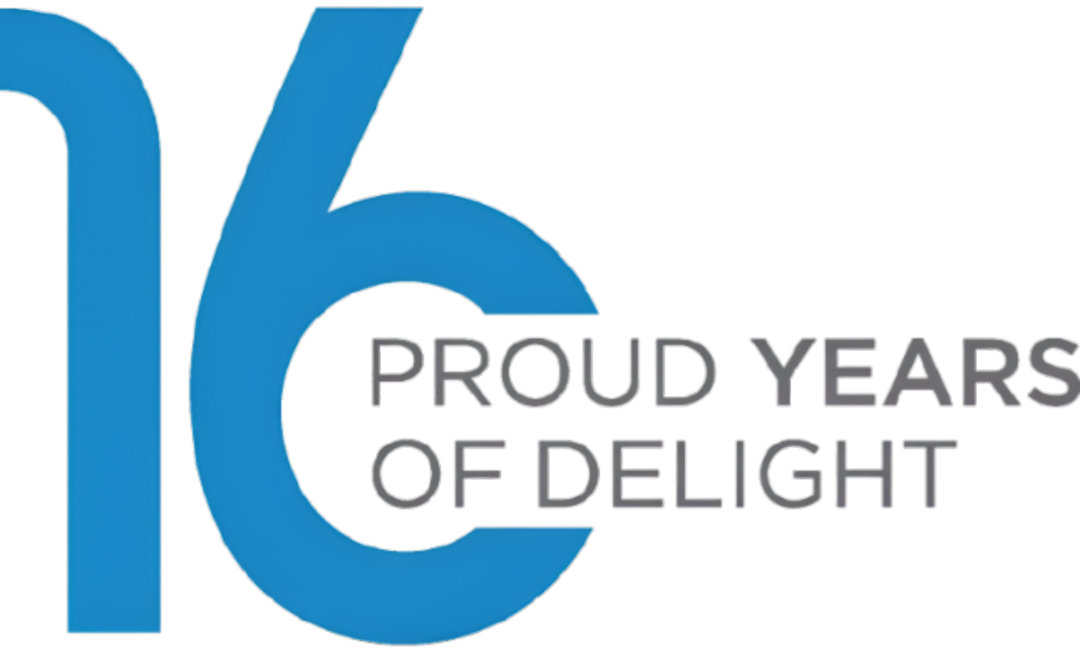
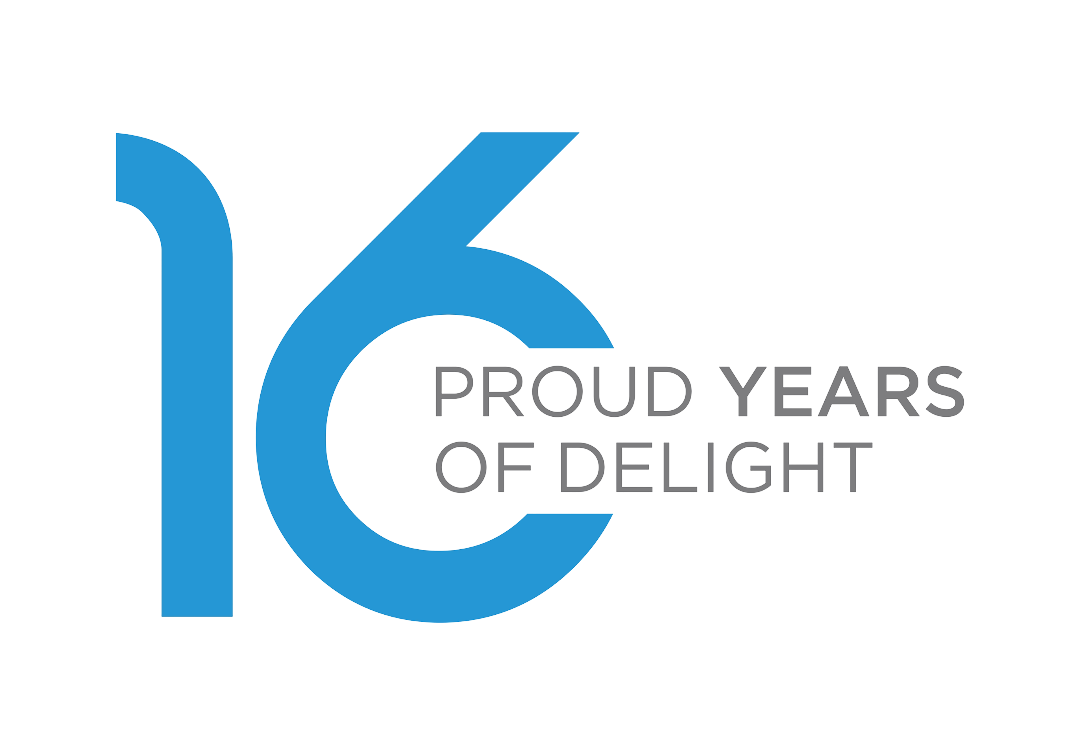
fix: project section

diff --git a/src/components/Footer/Footer.css b/src/components/Footer/Footer.css
@@ -5,22 +5,54 @@
 footer {
   background-color: #1D93D1;
   color: #fff;
-  padding: 60px 0 0;
+  padding: 35px 0 0;
 }
 
-/* ── Logo row — top right ── */
+/* ── Logo row — tagline left, logo right ── */
 .footer-logo-row {
   display: flex;
-  justify-content: flex-end;
-  margin-bottom: 50px;
+  align-items: center;
+  justify-content: space-between;
+  gap: 40px;
+  margin-bottom: 35px;
+}
+
+.footer-brand {
+  max-width: 480px;
+}
+
+.footer-tagline {
+  font-family: 'Rubik', sans-serif;
+  font-size: 0.92rem;
+  line-height: 1.75;
+  color: rgba(255, 255, 255, 0.9);
+  margin: 0 0 12px;
+}
+
+.footer-email {
+  display: inline-block;
+  font-family: 'Lato', sans-serif;
+  font-size: 0.85rem;
+  font-weight: 700;
+  letter-spacing: 0.04em;
+  color: #fff;
+  text-decoration: none;
+  border-bottom: 2px solid rgba(255, 255, 255, 0.6);
+  padding-bottom: 2px;
+  transition: opacity 0.2s;
+}
+
+.footer-email:hover {
+  opacity: 0.75;
 }
 
 .footer-logo-link {
   display: inline-block;
+  flex-shrink: 0;
 }
 
 .footer-logo {
-  height: 58px;
+  height: 68px;
   width: auto;
   filter: brightness(0) invert(1);
 }
@@ -165,7 +197,14 @@ footer {
   }
 
   .footer-logo-row {
+    flex-direction: column;
     justify-content: center;
+    text-align: center;
+    gap: 24px;
+  }
+
+  .footer-brand {
+    max-width: none;
   }
 
   .whatsapp-float {

diff --git a/src/components/Projects/Projects.js b/src/components/Projects/Projects.js
@@ -2,6 +2,8 @@ import React from 'react';
 import { Link } from 'react-router-dom';
 import './Projects.css';
 
+const IMG = '/images/projects/';
+
 export default function Projects() {
   return (
     <section id="projects-section">
@@ -25,63 +27,48 @@ export default function Projects() {
         {/* ── Right: 3-card bento grid ── */}
         <div id="works" className="works-grid">
 
-          {/* Card 1 – large portrait: photo + WEDDING pill + bold title */}
-          <a
-            href="https://medianetinfo.com/work/mesmera/"
-            className="work work--portrait"
-            target="_blank"
-            rel="noopener noreferrer"
-          >
+          {/* Card 1 – large portrait: photo + REAL ESTATE pill + bold title */}
+          <Link to="/work" className="work work--portrait">
             <div className="work-img-wrap">
               <img
-                src="https://medianetinfo.com/wp-content/themes/medianetinfo-theme/img/home/projects/project-2.png"
-                alt="Mesmera"
+                src={`${IMG}Our%20Projects_-03.jpg.jpeg`}
+                alt="HiLite Olympus 2"
                 loading="lazy"
               />
             </div>
             <div className="work-overlay work-overlay--bottom">
-              <span className="work-pill">WEDDING</span>
-              <h3 className="work-title work-title--photo">DESIGN YOUR DREAMS</h3>
+              <span className="work-pill">REAL ESTATE</span>
+              <h3 className="work-title work-title--photo">HILITE OLYMPUS 2</h3>
             </div>
-          </a>
+          </Link>
 
           {/* Right column – offset downward */}
           <div className="works-right">
 
-            {/* Card 2 – dark blue photo, centered italic title + client pill */}
-            <a
-              href="https://medianetinfo.com/work/mlounge/"
-              className="work work--landscape"
-              target="_blank"
-              rel="noopener noreferrer"
-            >
+            {/* Card 2 – photo, centered italic title + client pill */}
+            <Link to="/work" className="work work--landscape">
               <div className="work-img-wrap">
                 <img
-                  src="https://medianetinfo.com/wp-content/themes/medianetinfo-theme/img/home/projects/project-1.png"
-                  alt="M Lounge"
+                  src={`${IMG}Our%20Projects_-04.jpg.jpeg`}
+                  alt="Honda BigWing"
                   loading="lazy"
                 />
               </div>
               <div className="work-overlay work-overlay--center">
-                <h3 className="work-title work-title--italic">EVOLVE</h3>
-                <span className="work-client-pill">M LOUNGE</span>
+                <h3 className="work-title work-title--italic">BIG WING</h3>
+                <span className="work-client-pill">HONDA</span>
               </div>
-            </a>
+            </Link>
 
             {/* Card 3 – solid coral, decorative text layout */}
-            <a
-              href="https://medianetinfo.com/work/"
-              className="work work--landscape work--color"
-              target="_blank"
-              rel="noopener noreferrer"
-            >
+            <Link to="/work" className="work work--landscape work--color">
               <span className="work-tag">The Real Quality</span>
               <div className="work-color-body">
                 <p className="work-subtitle-italic">Experience</p>
                 <h3 className="work-title work-title--color">THE REAL QUALITY</h3>
                 <span className="work-divider-line" />
               </div>
-            </a>
+            </Link>
 
           </div>
         </div>

diff --git a/src/pages/Work/WorkPage.js b/src/pages/Work/WorkPage.js
@@ -4,66 +4,70 @@ import FooterCTA from '../../components/FooterCTA/FooterCTA';
 import Footer from '../../components/Footer/Footer';
 import './WorkPage.css';
 
-const CDN = 'https://medianetinfo.com/wp-content/themes/medianetinfo-theme/img/home/projects/';
+const IMG = '/images/projects/';
+const DECATHLON = IMG + 'Our%20Projects_-01.jpg.jpeg';
+const IMPEX = IMG + 'Our%20Projects_-02.jpg.jpeg';
+const HILITE = IMG + 'Our%20Projects_-03.jpg.jpeg';
+const HONDA = IMG + 'Our%20Projects_-04.jpg.jpeg';
 
 const works = [
   {
     name: 'JCB',
-    img: CDN + 'project-2.png',
+    img: HONDA,
     href: 'https://medianetinfo.com/work/jcb/',
     shape: 'landscape',
   },
   {
     name: 'Francis Alukkas',
-    img: CDN + 'project-2.png',
+    img: HILITE,
     href: 'https://medianetinfo.com/work/francis-alukkas/',
     shape: 'portrait',
   },
   {
     name: 'M Lounge',
-    img: CDN + 'project-1.png',
+    img: DECATHLON,
     href: 'https://medianetinfo.com/work/mlounge/',
     shape: 'square',
   },
   {
     name: 'EVM Nissan',
-    img: CDN + 'project-4.png',
+    img: IMPEX,
     href: 'https://medianetinfo.com/work/evm-nissan/',
     shape: 'landscape',
   },
   {
     name: 'Landmark Maple',
-    img: CDN + 'project-3.png',
+    img: IMPEX,
     href: 'https://medianetinfo.com/work/landmark-maple/',
     shape: 'square',
   },
   {
     name: 'Yamaha',
-    img: CDN + 'project-3.png',
+    img: DECATHLON,
     href: 'https://medianetinfo.com/work/yamaha/',
     shape: 'landscape',
   },
   {
     name: 'Natural',
-    img: CDN + 'project-4.png',
+    img: HILITE,
     href: 'https://medianetinfo.com/work/natural/',
     shape: 'portrait',
   },
   {
     name: 'Lamit',
-    img: CDN + 'project-3.png',
+    img: HONDA,
     href: 'https://medianetinfo.com/work/lamit/',
     shape: 'landscape',
   },
   {
     name: 'Mesmera',
-    img: CDN + 'project-4.png',
+    img: DECATHLON,
     href: 'https://medianetinfo.com/work/mesmera/',
     shape: 'square',
   },
   {
     name: 'Mend',
-    img: CDN + 'project-2.png',
+    img: IMPEX,
     href: 'https://medianetinfo.com/work/mend/',
     shape: 'landscape',
   },

diff --git a/src/components/Footer/Footer.js b/src/components/Footer/Footer.js
@@ -35,8 +35,18 @@ export default function Footer() {
       <footer id="wrapper-footer" role="contentinfo">
         <div className="container">
 
-          {/* Logo — top right */}
+          {/* Brand tagline — left, Logo — right */}
           <div className="footer-logo-row">
+            <div className="footer-brand">
+              <p className="footer-tagline">
+                Promptness and accuracy in delivering quality service is our
+                iconic history. Internationalism in the work culture and 16+
+                years of trusted partnerships with esteemed clients.
+              </p>
+              <a href="mailto:[email redacted]" className="footer-email">
+                [email redacted]
+              </a>
+            </div>
             <a href="/" className="footer-logo-link" aria-label="Medianet Info">
               <img
                 src="https://medianetinfo.com/wp-content/themes/medianetinfo-theme/img/logo-footer.svg"

diff --git a/src/pages/About/About.css b/src/pages/About/About.css
@@ -10,7 +10,7 @@
 .about-container {
   max-width: 1200px;
   margin: 0 auto;
-  padding: 0 48px;
+  padding: 0 48px 0 16px;
 }
 
 .about-blue {
@@ -28,6 +28,7 @@
   gap: 64px;
   align-items: center;
 }
+
 
 .about-we-are-heading {
   font-family: 'Lato', sans-serif;
@@ -53,7 +54,7 @@
 }
 
 .about-badge-img {
-  height: 300px;
+  height: 480px;
   width: auto;
   display: block;
   object-fit: contain;
@@ -243,7 +244,7 @@
 /* ── Responsive ── */
 @media (max-width: 1024px) {
   .about-container {
-    padding: 0 32px;
+    padding: 0 32px 0 12px;
   }
   .about-we-are-grid {
     gap: 40px;
@@ -255,7 +256,7 @@
 
 @media (max-width: 768px) {
   .about-container {
-    padding: 0 20px;
+    padding: 0 20px 0 12px;
   }
   .about-we-are-grid {
     grid-template-columns: 1fr;
@@ -265,7 +266,7 @@
     order: -1;
   }
   .about-badge-img {
-    height: 220px;
+    height: 280px;
   }
   .about-quote-row {
     flex-direction: column;